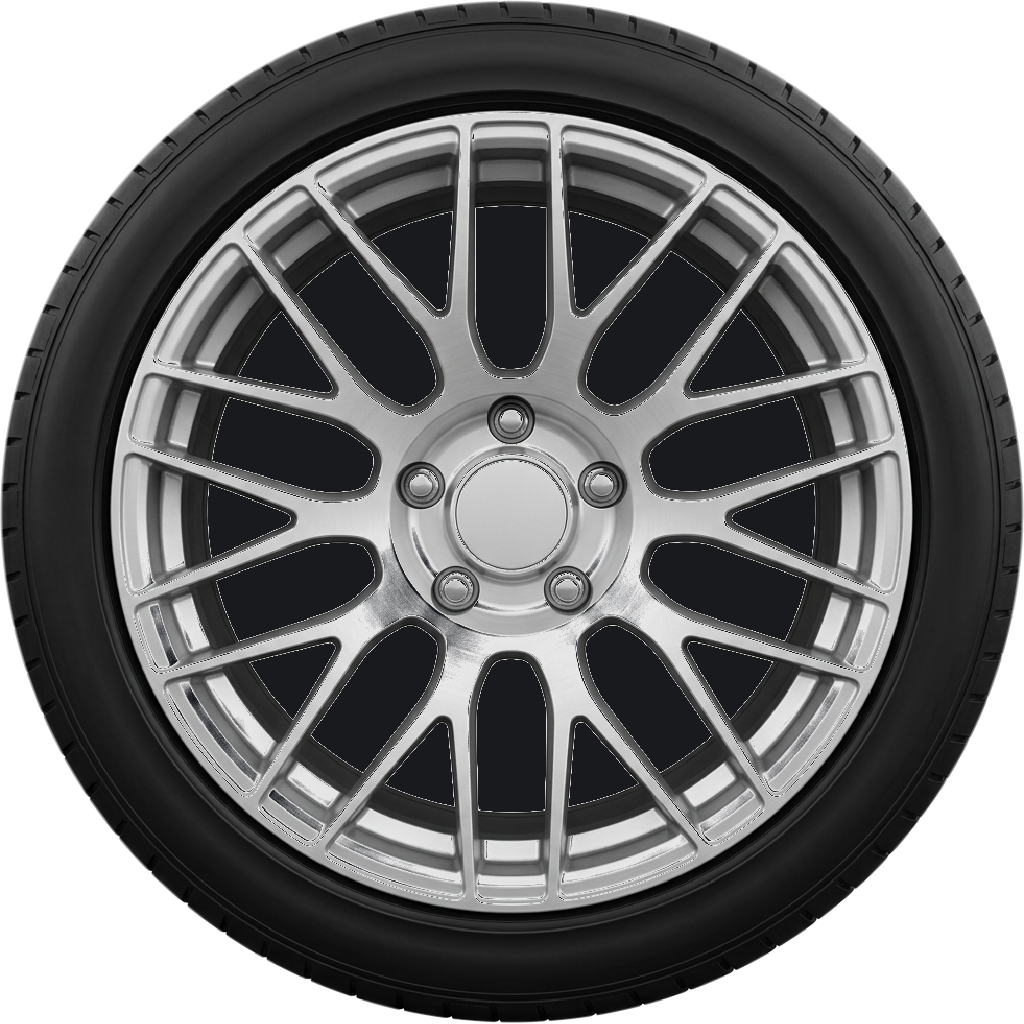
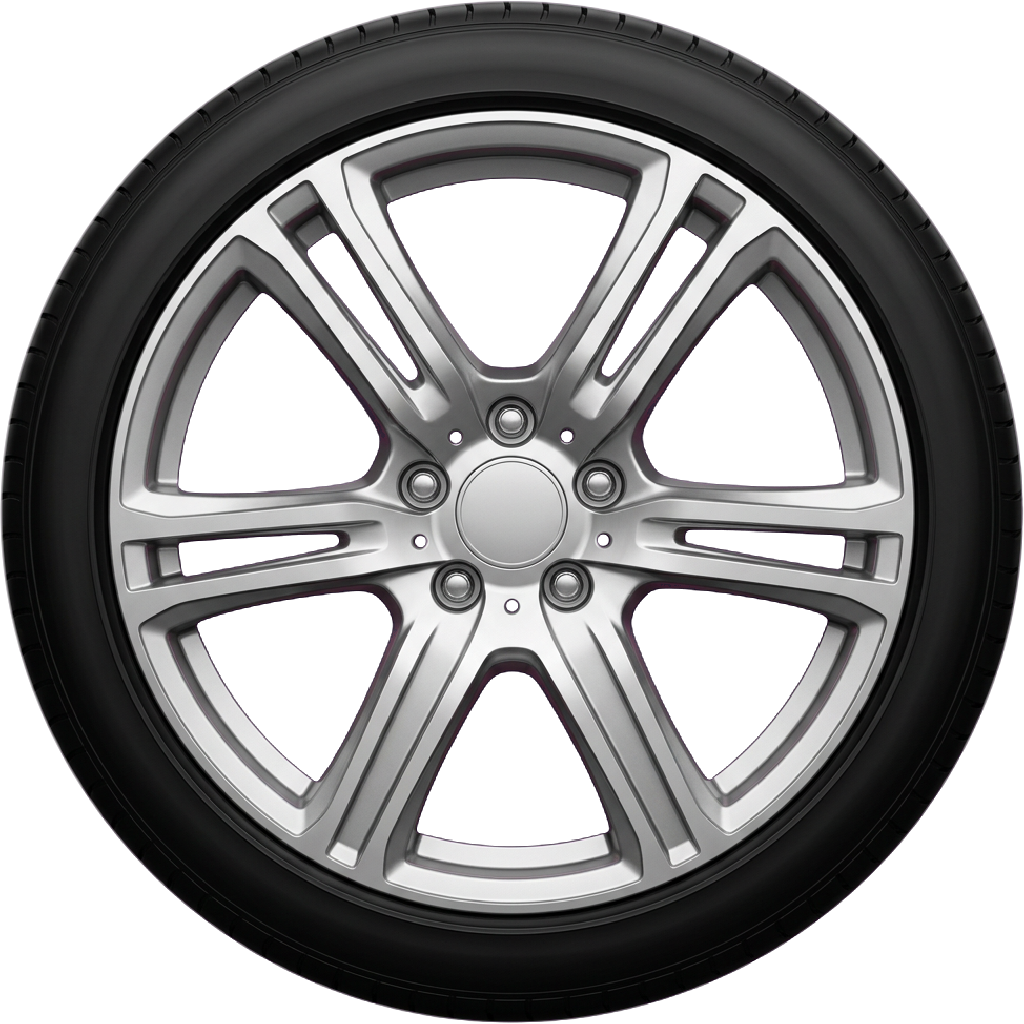
feat: update wheel assembly and opacity in hero component

diff --git a/components/home/hero.tsx b/components/home/hero.tsx
@@ -35,14 +35,27 @@ export function Hero({ store }: { store: Store }) {
               className="hero-wheel-shadow absolute"
               style={{ left: "8%", right: "8%", bottom: "-4%", height: "9%" }}
             />
-            <div className="hero-wheel-spin relative aspect-square">
-              <Image
-                src="/images/hero-wheel-side.png"
-                alt={t.home.heroAlt}
-                fill
-                priority
-                sizes="(min-width: 1024px) 50vw, 90vw"
-              />
+            {/* Barrel and disc sit behind the open spokes. The disc turns with the
+                wheel; the caliper is bolted to the car, so it travels but never rotates. */}
+            <div className="relative aspect-square">
+              <div aria-hidden="true" className="hero-wheel-barrel absolute rounded-full" style={{ inset: "12%" }} />
+              <div aria-hidden="true" className="hero-wheel-spin absolute" style={{ inset: "20%" }}>
+                <Image src="/images/hero-brake-disc.png" alt="" fill priority sizes="30vw" />
+              </div>
+              <div aria-hidden="true" className="absolute inset-0" style={{ transform: "rotate(38deg)" }}>
+                <div className="absolute" style={{ left: "30%", top: "15.5%", width: "40%", aspectRatio: "640 / 289" }}>
+                  <Image src="/images/hero-brake-caliper.png" alt="" fill priority sizes="20vw" />
+                </div>
+              </div>
+              <div className="hero-wheel-spin absolute inset-0">
+                <Image
+                  src="/images/hero-wheel-side.png"
+                  alt={t.home.heroAlt}
+                  fill
+                  priority
+                  sizes="(min-width: 1024px) 50vw, 90vw"
+                />
+              </div>
             </div>
           </div>
         </div>

diff --git a/app/globals.css b/app/globals.css
@@ -175,6 +175,10 @@
   background: radial-gradient(closest-side, oklch(0.22 0.02 255 / 0.55), oklch(0.22 0.02 255 / 0));
 }
 
+.hero-wheel-barrel {
+  background: radial-gradient(closest-side, oklch(0.2 0.008 255), oklch(0.13 0.006 255) 85%, oklch(0.09 0.005 255));
+}
+
 /* Rubber left on the floor. It hangs off the wheel and reaches far to the left,
    so as the wheel travels it reads as a mark being laid down behind it. */
 .hero-wheel-skid {
@@ -196,10 +200,10 @@
     transform: scale(0.35, 0.55);
   }
   8% {
-    opacity: 0.85;
+    opacity: 0.45;
   }
   42% {
-    opacity: 1;
+    opacity: 0.55;
     transform: scale(1, 1);
   }
   100% {

diff --git a/docs/ARCHIVE.md b/docs/ARCHIVE.md
@@ -4,6 +4,14 @@
 
 ---
 
+## 16.10.2026 — Тормозной диск и суппорт за спицами, дым бледнее
+
+**Сделано.** Колесо собрано из слоёв: тёмный барабан (`.hero-wheel-barrel`), сверлёный диск (`public/images/hero-brake-disc.png`, вращается вместе с колесом), красный суппорт (`public/images/hero-brake-caliper.png`, едет с колесом, но не вращается, стоит примерно на «два часа»), сверху спицы с прозрачными просветами (`public/images/hero-wheel-side.png`, новая вырезка). Пиковая непрозрачность дыма снижена с 1 до 0,55.
+
+**Проверено.** Кадры середины пути и остановки: диск виден между спицами, суппорт на одном месте, ошибок нет.
+
+---
+
 ## 16.10.2026 — Колесо строго сбоку, след резины и дым
 
 **Сделано.** Колесо под углом заменено на сгенерированное строго сбоку, без суппорта и без надписей и логотипов на шине (`public/images/hero-wheel-side.png`), — при качении оно теперь не выглядит наклонённым. За колесом на полу остаётся тёмный след резины (`.hero-wheel-skid`), сзади тянется дым (`public/images/hero-smoke.webp`, `.hero-wheel-smoke`), который после остановки поднимается и рассеивается примерно за 2,5 с. При `prefers-reduced-motion` дым не показывается. Старая вырезка `hero-wheel-cutout.png` удалена.
